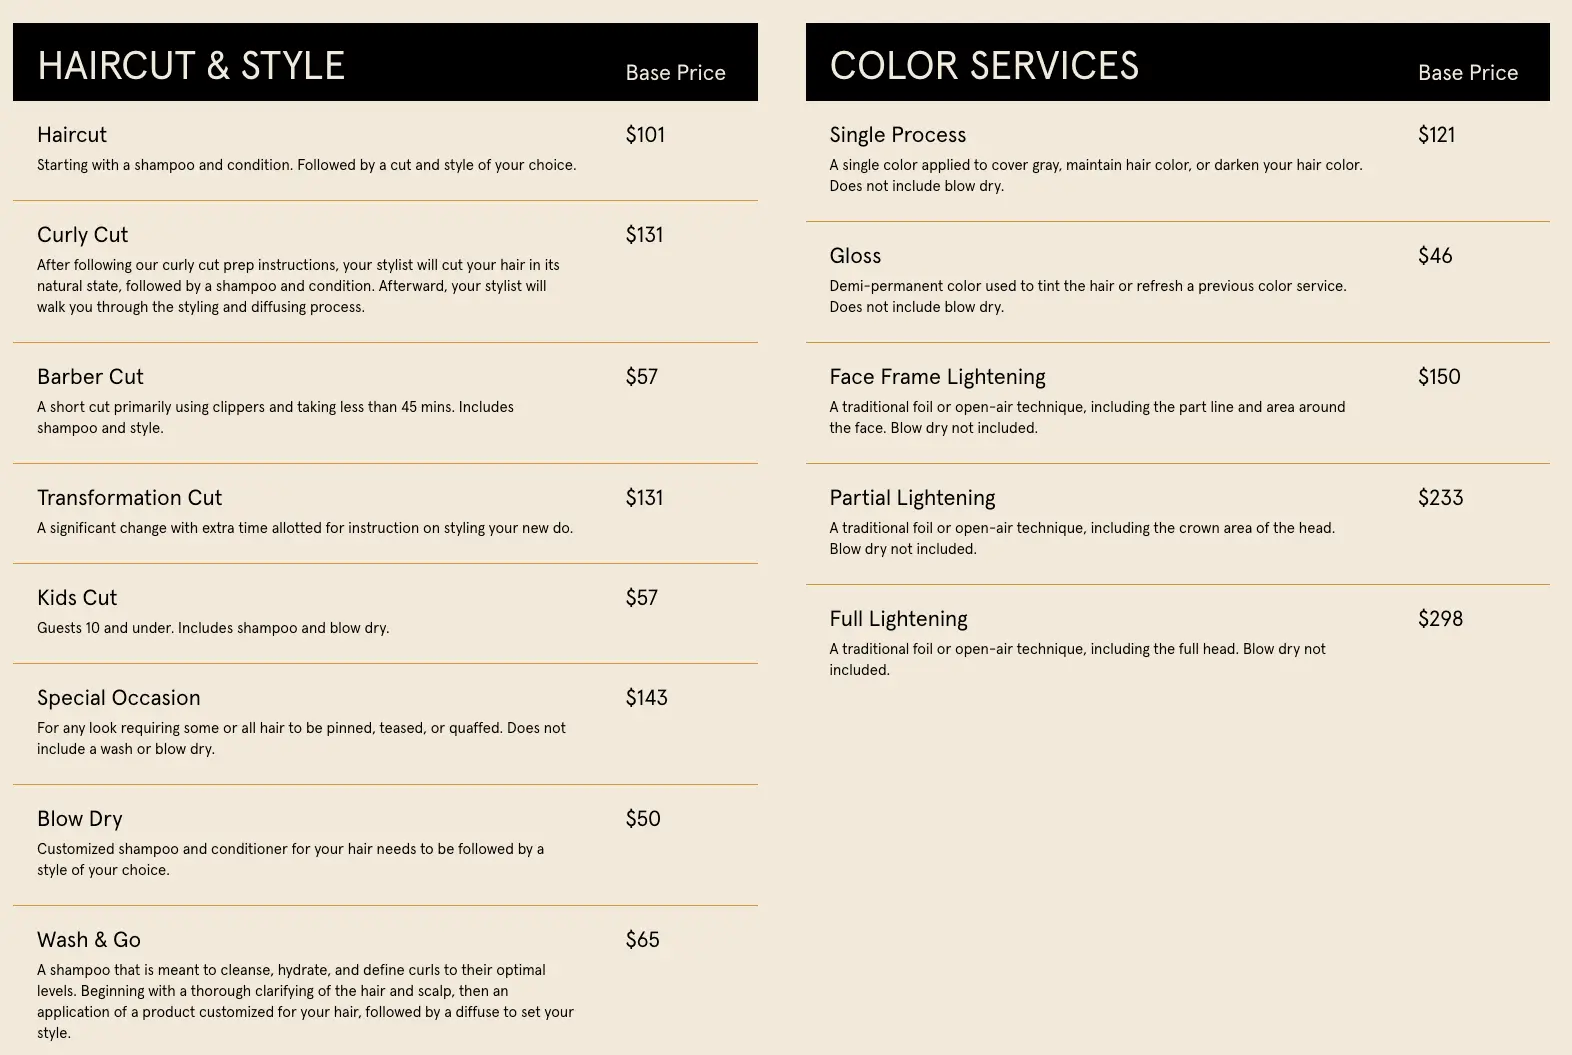
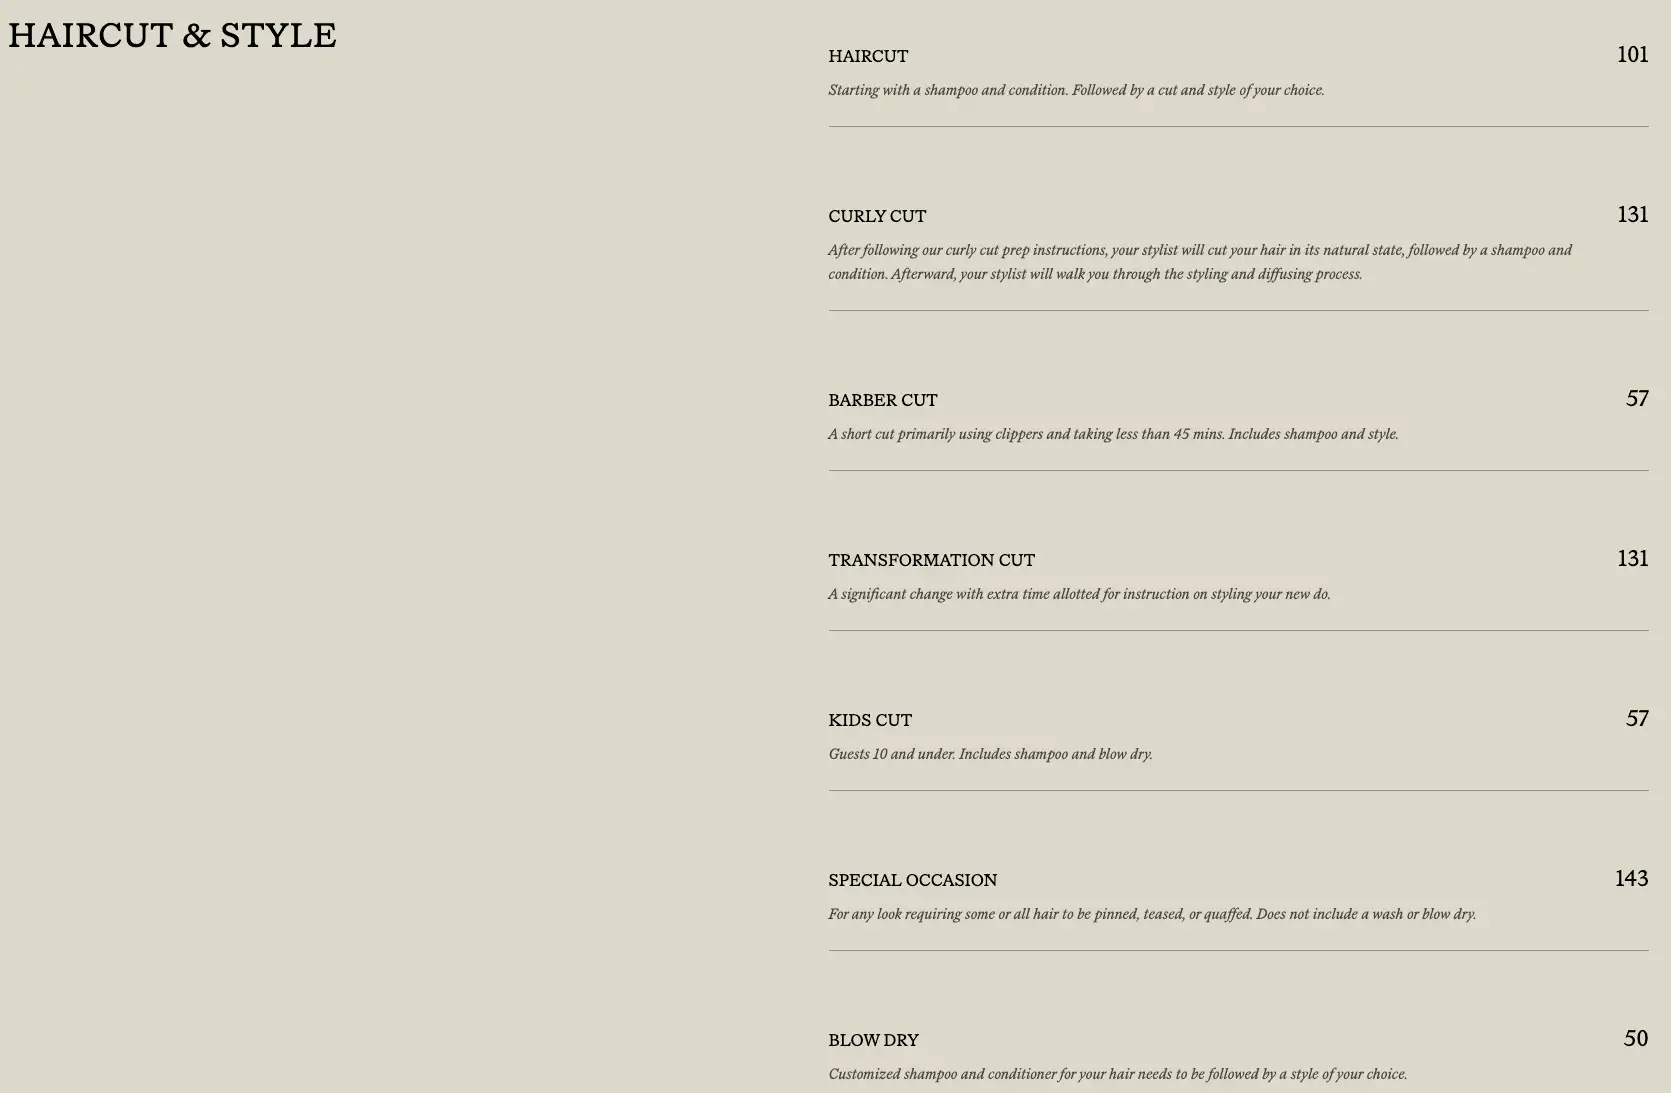
feat(admin: add new and updated block thumbnails

diff --git a/src/blocks/Intro/config.ts b/src/blocks/Intro/config.ts
@@ -5,6 +5,7 @@ import { accentColorField } from '@/fields/accentColor'
 export const Intro: Block = {
   slug: 'intro',
   interfaceName: 'IntroBlock',
+  imageURL: '/images/thumbnails/intro.webp',
   fields: [
     {
       name: 'introImage',

diff --git a/src/blocks/Gallery/config.ts b/src/blocks/Gallery/config.ts
@@ -3,6 +3,7 @@ import { Block } from 'payload'
 export const Gallery: Block = {
   slug: 'gallery',
   interfaceName: 'GalleryBlock',
+  imageURL: '/images/thumbnails/carousel.webp',
   fields: [
     {
       name: 'title',

diff --git a/src/blocks/TeamGrid/config.ts b/src/blocks/TeamGrid/config.ts
@@ -3,6 +3,7 @@ import { Block } from 'payload'
 export const TeamGrid: Block = {
   slug: 'team',
   interfaceName: 'TeamGridBlock',
+  imageURL: '/images/thumbnails/team.webp',
   fields: [
     {
       name: 'columns',

diff --git a/src/blocks/Visit/config.ts b/src/blocks/Visit/config.ts
@@ -3,6 +3,7 @@ import type { Block } from 'payload'
 export const Visit: Block = {
   slug: 'visit',
   interfaceName: 'VisitBlock',
+  imageURL: '/images/thumbnails/visit.webp',
   fields: [
     {
       name: 'title',
